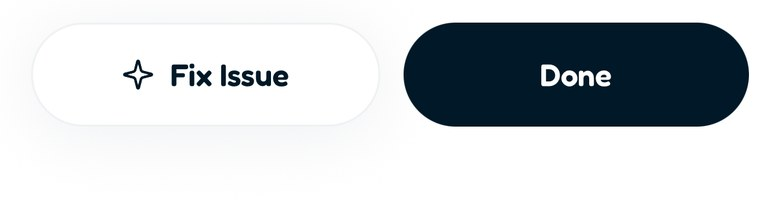
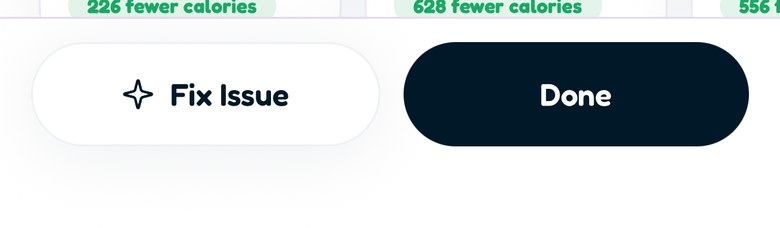
Jar result: Next time folded, swaps on the first screen, no page scroll

diff --git a/assets/main-Ck3A3qQY.js b/assets/main-Ck3A3qQY.js
@@ -1,0 +1,1 @@
+import{j as e,r as g,h as H,P as D,A as I,a as Z,b as J,d as K,t as Q,H as ee,F as te,c as se}from"./Footer-ChDiOIn4.js";function $({src:s,alt:d,width:r=280,className:o="",priority:t=!1,screen:i,dim:h=!1}){const l=r,c=l*.016,k=l*.03,p=c+k,m=l-p*2,b=m*(2868/1320)+p*2,S=l*.165,j=Math.max(1,l*.005),w=l*.012,F=[[.155,.04],[.225,.065],[.31,.065]],a=[[.255,.115]],B=(n,[x,u],v)=>e.jsx("div",{className:"absolute",style:{top:b*x,height:b*u,width:w+c,[n]:-w,borderRadius:n==="left"?`${w}px 0 0 ${w}px`:`0 ${w}px ${w}px 0`,background:n==="left"?"linear-gradient(90deg, #4c4c54 0%, #1c1c21 45%, #101013 100%)":"linear-gradient(270deg, #3a3a41 0%, #1a1a1f 45%, #101013 100%)",boxShadow:"inset 0 1px 0 rgba(255,255,255,0.28), inset 0 -1px 0 rgba(0,0,0,0.6)"}},`${n}${v}`),T=[{top:0,left:l*.2,width:j,height:c},{top:0,right:l*.2,width:j,height:c},{bottom:0,left:l*.2,width:j,height:c},{bottom:0,right:l*.2,width:j,height:c},{left:0,top:b*.1,height:j,width:c},{left:0,bottom:b*.1,height:j,width:c},{right:0,top:b*.1,height:j,width:c},{right:0,bottom:b*.1,height:j,width:c}],P={w:m*.31,h:m*.092,top:m*.028},M=m*.052;return e.jsxs("div",{className:`relative shrink-0 ${o}`,style:{width:l,height:b},children:[e.jsx("div",{className:"absolute inset-0",style:{borderRadius:S,boxShadow:`0 ${l*.12}px ${l*.3}px rgba(52,18,110,0.45), 0 ${l*.03}px ${l*.07}px rgba(0,0,0,0.3)`}}),F.map((n,x)=>B("left",n,x)),a.map((n,x)=>B("right",n,x)),e.jsx("div",{className:"absolute inset-0",style:{borderRadius:S,background:"linear-gradient(155deg, #5a5a63 0%, #2a2a30 14%, #35353c 32%, #1b1b1f 55%, #2e2e34 78%, #56565f 100%)",boxShadow:"inset 0 0 0 1px rgba(255,255,255,0.28), inset 0 0 0 2px rgba(0,0,0,0.35)"}}),e.jsx("div",{className:"absolute inset-0",style:{borderRadius:S,padding:c,background:"conic-gradient(from 200deg at 50% 50%, rgba(255,255,255,0) 0deg, rgba(255,255,255,0.22) 35deg, rgba(255,255,255,0.04) 80deg, rgba(255,255,255,0) 130deg, rgba(255,255,255,0.14) 215deg, rgba(255,255,255,0) 260deg, rgba(255,255,255,0.08) 320deg, rgba(255,255,255,0) 360deg)",WebkitMask:"linear-gradient(#000 0 0) content-box, linear-gradient(#000 0 0)",WebkitMaskComposite:"xor",maskComposite:"exclude"},"aria-hidden":"true"}),T.map((n,x)=>e.jsx("div",{className:"absolute",style:{...n,background:"rgba(200,200,212,0.42)"}},x)),e.jsx("div",{className:"absolute",style:{inset:c,borderRadius:S-c,background:"#050507",boxShadow:"inset 0 0 0 1px rgba(255,255,255,0.07), inset 0 0 8px rgba(0,0,0,0.9)"}}),e.jsxs("div",{className:"absolute overflow-hidden bg-black",style:{inset:p,borderRadius:S-p},children:[i?i(m):e.jsx("img",{src:s,alt:d,width:1320,height:2868,loading:t?"eager":"lazy",decoding:"async",className:"h-full w-full object-cover",draggable:!1}),e.jsx("div",{className:"pointer-events-none absolute inset-0 z-20 bg-black",style:{opacity:h?.62:0,transition:"opacity 900ms ease"},"aria-hidden":"true"}),e.jsx("div",{className:"absolute left-1/2 -translate-x-1/2 rounded-full bg-black",style:{top:P.top,width:P.w,height:P.h,boxShadow:"inset 0 0 0 1px rgba(255,255,255,0.05)"},children:e.jsx("div",{className:"absolute top-1/2 -translate-y-1/2 rounded-full",style:{right:(P.h-M)/2,width:M,height:M,background:"radial-gradient(circle at 38% 35%, #2b2b3d 0%, #121218 45%, #05050a 70%)",boxShadow:"inset 0 0 0 1px rgba(255,255,255,0.09), 0 0 0 1px rgba(0,0,0,0.9)"}})}),e.jsx("div",{className:"pointer-events-none absolute inset-0",style:{background:"linear-gradient(118deg, rgba(255,255,255,0.16) 0%, rgba(255,255,255,0.05) 28%, rgba(255,255,255,0) 46%)"},"aria-hidden":"true"}),e.jsx("div",{className:"pointer-events-none absolute inset-0",style:{borderRadius:S-p,boxShadow:"inset 0 0 0 1px rgba(255,255,255,0.10), inset 0 1px 0 rgba(255,255,255,0.18)"},"aria-hidden":"true"})]})]})}const X=12e3,A={loading:320,result:2020},ae=1500,re=1300,ie=1900,z=402,ne=874;function le({clip:s,result:d,scene:r,alt:o,width:t,active:i}){const h=g.useRef(null),[l,c]=g.useState("camera"),[k,p]=g.useState(0),[m,E]=g.useState(0),b=g.useRef([]),S=()=>{b.current.forEach(n=>window.clearTimeout(n)),b.current=[]},[j]=g.useState(()=>typeof window<"u"&&window.matchMedia("(prefers-reduced-motion: reduce)").matches);g.useEffect(()=>{const n=h.current;if(!n||j)return;n.muted=!0,n.setAttribute("muted","");const x=()=>{!document.hidden&&i&&n.play().catch(()=>{})};return document.addEventListener("visibilitychange",x),()=>document.removeEventListener("visibilitychange",x)},[j,i]),g.useEffect(()=>{const n=h.current;if(!i||j){S(),c("camera"),p(0),E(0),n&&(n.pause(),n.currentTime=0);return}n&&(n.loop=!1,n.currentTime=0,n.play().catch(()=>{}));const x=window.setTimeout(()=>F(),2600);return b.current.push(x),b.current.push(window.setTimeout(()=>{c("camera"),p(0)},X-400)),S},[i,j,r]);const w=g.useRef(!1);g.useEffect(()=>{w.current=!1},[i]);function F(){if(w.current||!i)return;w.current=!0,c("shoot");const n=(u,v)=>b.current.push(window.setTimeout(v,u));n(A.loading,()=>{c("loading");const u=performance.now(),v=()=>{const y=Math.min(1,(performance.now()-u)/ae);E(Math.round((1-Math.pow(1-y,3))*100)),y<1&&requestAnimationFrame(v)};requestAnimationFrame(v)}),n(A.result,()=>{p(0),c("result")});const x=(r.pageScrollPt?1:0)+r.moves.length;for(let u=0;u<x;u++)n(A.result+re+u*ie,()=>p(u+1))}const a=n=>n/z*t,B=a(ne),T=l==="camera"||l==="shoot",P=l==="loading",M=l==="result";return j?e.jsx("img",{src:d,alt:o,className:"h-full w-full object-cover",draggable:!1}):e.jsxs("div",{className:"relative h-full w-full overflow-hidden bg-black",style:{fontFamily:"var(--font-display)"},children:[e.jsxs("div",{className:"absolute inset-0",style:{opacity:T?1:0,transition:"opacity 160ms ease"},children:[e.jsxs("video",{ref:h,className:"absolute inset-0 h-full w-full object-cover",muted:!0,playsInline:!0,preload:"auto",poster:`/video/${s}-poster.jpg`,onEnded:F,"aria-hidden":"true",children:[e.jsx("source",{src:`/video/${s}.webm`,type:"video/webm"}),e.jsx("source",{src:`/video/${s}.mp4`,type:"video/mp4"})]}),e.jsx(_,{sw:t}),e.jsxs("div",{className:"absolute inset-x-0 flex items-center justify-between",style:{top:a(67),paddingLeft:a(20),paddingRight:a(20)},children:[e.jsx(W,{sw:t,size:36,children:e.jsx(R,{sw:t,size:19,d:["M19 12H5","m12 19-7-7 7-7"]})}),e.jsx("span",{className:"font-semibold text-white",style:{fontSize:a(16)},children:"Scanner"}),e.jsx(W,{sw:t,size:36,children:e.jsx("span",{className:"font-bold text-white",style:{fontSize:a(18)},children:"?"})})]}),(()=>{const n=t*.84,x=n/.84,u=(a(107)+(B-a(250)))/2-x/2,v=a(4),y=a(22),N=a(32),U=f=>({position:"absolute",width:N,height:N,borderColor:"#fff",borderStyle:"solid",top:f[0]==="t"?0:void 0,bottom:f[0]==="b"?0:void 0,left:f[1]==="l"?0:void 0,right:f[1]==="r"?0:void 0,borderTopWidth:f[0]==="t"?v:0,borderBottomWidth:f[0]==="b"?v:0,borderLeftWidth:f[1]==="l"?v:0,borderRightWidth:f[1]==="r"?v:0,borderTopLeftRadius:f==="tl"?y:0,borderTopRightRadius:f==="tr"?y:0,borderBottomLeftRadius:f==="bl"?y:0,borderBottomRightRadius:f==="br"?y:0});return e.jsx("div",{className:"absolute left-1/2 -translate-x-1/2",style:{top:u,width:n,height:x},children:["tl","tr","bl","br"].map(f=>e.jsx("span",{style:U(f)},f))})})(),e.jsx(V,{sw:t,items:[".5x","1x"],active:1,minWidth:96,bottom:204}),e.jsx(V,{sw:t,items:["Log","Swap","Menu"],active:0,minWidth:160,bottom:164}),e.jsx("div",{className:"absolute inset-x-0 flex items-center",style:{bottom:a(96),height:a(58),paddingLeft:a(28),paddingRight:a(28),gap:a(8)},children:[["Scan Food",["M3 7V5a2 2 0 0 1 2-2h2","M17 3h2a2 2 0 0 1 2 2v2","M21 17v2a2 2 0 0 1-2 2h-2","M7 21H5a2 2 0 0 1-2-2v-2","M7 12h10"]],["Barcode",["M3 5v14","M8 5v14","M12 5v14","M17 5v14","M21 5v14"]],["Food label",["M3 2v7a2 2 0 0 0 2 2h0a2 2 0 0 0 2-2V2","M7 2v20","M21 15V2a5 5 0 0 0-5 5v6c0 1.1.9 2 2 2h3Z"]]].map(([n,x],u)=>e.jsxs("span",{className:"flex flex-1 flex-col items-center justify-center",style:{gap:a(3),paddingTop:a(7),paddingBottom:a(7),borderRadius:a(13),background:u===0?"#fff":"rgba(255,255,255,0.14)",border:`1px solid ${u===0?"#fff":"rgba(255,255,255,0.42)"}`,backdropFilter:u===0?void 0:"blur(10px)",color:u===0?"#001827":"#fff"},children:[e.jsx(R,{sw:t,size:15,d:x}),e.jsx("span",{className:"font-bold",style:{fontSize:a(10)},children:n})]},n))}),e.jsxs("div",{className:"absolute inset-x-0 flex items-center justify-between",style:{bottom:a(24),paddingLeft:a(20),paddingRight:a(20)},children:[e.jsx(W,{sw:t,size:44,children:e.jsx(R,{sw:t,size:18,d:["M8.5 14.5A2.5 2.5 0 0 0 11 12c0-1.38-.5-2-1-3-1.072-2.143-.224-4.054 2-6 .5 2.5 2 4.9 4 6.5 2 1.6 3 3.5 3 5.5a7 7 0 1 1-14 0c0-1.153.433-2.294 1-3a2.5 2.5 0 0 0 2.5 2.5z"]})}),e.jsx("span",{className:"grid place-items-center rounded-full",style:{width:a(64),height:a(64),border:`${a(4)}px solid #fff`},children:e.jsx("span",{className:"block rounded-full bg-white",style:{width:a(49),height:a(49),transform:l==="shoot"?"scale(0.82)":"scale(1)",transition:"transform 120ms ease"}})}),e.jsx(W,{sw:t,size:44,children:e.jsx(R,{sw:t,size:18,d:["M3 5a2 2 0 0 1 2-2h14a2 2 0 0 1 2 2v14a2 2 0 0 1-2 2H5a2 2 0 0 1-2-2z","m21 15-5-5L5 21"],circle:[9,9,2]})})]}),e.jsx("span",{className:"absolute left-1/2 -translate-x-1/2 rounded-full bg-white",style:{bottom:a(8),width:a(139),height:a(5)}})]}),e.jsx("div",{className:"pointer-events-none absolute inset-0 z-20 bg-white",style:{opacity:l==="shoot"?.85:0,transition:l==="shoot"?"none":"opacity 240ms ease"}}),e.jsxs("div",{className:"absolute inset-0 z-[5] bg-[#F7F5FB] text-[#001827]",style:{opacity:P?1:0,transition:"opacity 200ms ease",pointerEvents:"none"},children:[e.jsx(_,{sw:t,dark:!0}),e.jsxs("div",{className:"absolute left-1/2 top-1/2 -translate-x-1/2 -translate-y-1/2",style:{width:a(150),height:a(150)},children:[e.jsx(oe,{sw:t,size:150,stroke:11,pct:m}),e.jsxs("span",{className:"absolute inset-0 grid place-items-center font-bold",style:{fontSize:a(34),letterSpacing:"-0.02em"},children:[m,"%"]})]}),e.jsx("p",{className:"absolute inset-x-0 text-center font-semibold",style:{top:`calc(50% + ${a(100)}px)`,fontSize:a(17),color:"#5B6B78"},children:"Analysing…"})]}),(()=>{const n=r.pageScrollPt?1:0,x=r.pageScrollPt&&k>=1?a(r.pageScrollPt):0,u=Math.min(r.moves.length,Math.max(0,k-n)),v=u>0?a(r.moves[u-1]):0,y="cubic-bezier(0.16, 1, 0.3, 1)";return e.jsxs("div",{className:"absolute inset-0 z-10 overflow-hidden bg-white",style:{transform:M?"translateX(0)":"translateX(100%)",transition:M?"transform 320ms cubic-bezier(0.22, 1, 0.36, 1)":"transform 0ms",boxShadow:"-12px 0 30px rgba(0,0,0,0.25)"},children:[e.jsxs("div",{className:"absolute left-0 top-0 w-full will-change-transform",style:{transform:`translateY(${-x}px)`,transition:M?`transform 1000ms ${y}`:"none"},children:[e.jsx("img",{src:r.base,alt:o,className:"block w-full",draggable:!1}),e.jsx("div",{className:"absolute left-0 w-full overflow-hidden",style:{top:a(r.band.topPt),height:a(r.band.heightPt)},children:e.jsx("img",{src:r.strip,alt:"",className:"block max-w-none will-change-transform",draggable:!1,style:{height:a(r.band.heightPt),width:a(r.stripWidthPt),transform:`translateX(${-v}px)`,transition:M?`transform 1400ms ${y}`:"none"}})})]}),r.cleanTopWhenScrolled&&e.jsxs("div",{className:"absolute inset-x-0 top-0",style:{height:a(140),opacity:x>0?1:0,transition:"opacity 500ms ease",background:"linear-gradient(#F7F5FB 0%, #F7F5FB 74%, rgba(247,245,251,0) 100%)"},children:[e.jsx(_,{sw:t,dark:!0}),e.jsxs("div",{className:"absolute inset-x-0 flex items-center justify-between",style:{top:a(50),paddingLeft:a(12),paddingRight:a(12)},children:[e.jsx(O,{sw:t,children:e.jsx(R,{sw:t,size:20,d:["M19 12H5","m12 19-7-7 7-7"]})}),e.jsxs("span",{className:"flex",style:{gap:a(10)},children:[e.jsx(O,{sw:t,children:e.jsx(R,{sw:t,size:19,d:["M12 3v12","m7 8 5-5 5 5","M5 14v5a2 2 0 0 0 2 2h10a2 2 0 0 0 2-2v-5"]})}),e.jsx(O,{sw:t,children:e.jsx(R,{sw:t,size:19,d:["M5 12h.01","M12 12h.01","M19 12h.01"]})})]})]})]}),r.fixed?.map(N=>e.jsx("img",{src:N.src,alt:"",className:"absolute block max-w-none",draggable:!1,style:{left:a(N.leftPt),top:a(N.topPt),width:a(N.widthPt),height:a(N.heightPt),opacity:!N.whenScrolled||x>0?1:0,transition:"opacity 700ms ease"}},N.src))]})})()]})}function _({sw:s,dark:d}){const r=t=>t/z*s,o=d?"#001827":"#fff";return e.jsxs("div",{className:"absolute inset-x-0 flex items-center justify-between font-semibold",style:{top:r(14),paddingLeft:r(44),paddingRight:r(36),fontSize:r(17),color:o},children:[e.jsx("span",{children:"9:41"}),e.jsxs("span",{className:"flex items-center",style:{gap:r(6)},children:[e.jsxs("svg",{width:r(18),height:r(12),viewBox:"0 0 18 12",fill:o,children:[e.jsx("rect",{x:"0",y:"8",width:"3",height:"4",rx:"0.8"}),e.jsx("rect",{x:"5",y:"5.5",width:"3",height:"6.5",rx:"0.8"}),e.jsx("rect",{x:"10",y:"3",width:"3",height:"9",rx:"0.8"}),e.jsx("rect",{x:"15",y:"0",width:"3",height:"12",rx:"0.8"})]}),e.jsxs("svg",{width:r(17),height:r(12),viewBox:"0 0 16 12",fill:o,children:[e.jsx("path",{d:"M8 11.5 5.6 9a3.4 3.4 0 0 1 4.8 0zM3.5 6.8l-1.6-1.7a8.7 8.7 0 0 1 12.2 0l-1.6 1.7a6.4 6.4 0 0 0-9 0z"}),e.jsx("path",{d:"M8 4.2c1.5 0 2.9.6 3.9 1.6L10.3 7.5a3.3 3.3 0 0 0-4.6 0L4.1 5.8a5.5 5.5 0 0 1 3.9-1.6z"})]}),e.jsxs("svg",{width:r(27),height:r(13),viewBox:"0 0 27 13",fill:"none",children:[e.jsx("rect",{x:"0.5",y:"0.5",width:"23",height:"12",rx:"3.5",stroke:o,strokeOpacity:"0.5"}),e.jsx("rect",{x:"2",y:"2",width:"20",height:"9",rx:"2",fill:o}),e.jsx("path",{d:"M25 4.5v4a2 2 0 0 0 0-4z",fill:o,fillOpacity:"0.5"})]})]})]})}function O({sw:s,children:d}){const r=o=>o/z*s;return e.jsx("span",{className:"grid place-items-center rounded-full text-[#001827]",style:{width:r(40),height:r(40),background:"#EEEDF3"},children:d})}function oe({sw:s,size:d,stroke:r,pct:o}){const t=k=>k/z*s,i=t(d),h=t(r),l=(i-h)/2,c=2*Math.PI*l;return e.jsxs("svg",{width:i,height:i,style:{transform:"rotate(-90deg)"},"aria-hidden":"true",children:[e.jsx("circle",{cx:i/2,cy:i/2,r:l,stroke:"#E6DFF5",strokeWidth:h,fill:"none"}),e.jsx("circle",{cx:i/2,cy:i/2,r:l,stroke:"#7A3FB8",strokeWidth:h,fill:"none",strokeLinecap:"round",strokeDasharray:c,strokeDashoffset:c*(1-o/100)})]})}function W({sw:s,size:d,children:r}){const o=t=>t/z*s;return e.jsx("span",{className:"grid place-items-center rounded-full text-white",style:{width:o(d),height:o(d),background:"rgba(255,255,255,0.14)",border:"1px solid rgba(255,255,255,0.42)",backdropFilter:"blur(10px)"},children:r})}function R({sw:s,size:d,d:r,circle:o}){const t=d/z*s;return e.jsxs("svg",{width:t,height:t,viewBox:"0 0 24 24",fill:"none",stroke:"currentColor",strokeWidth:"2",strokeLinecap:"round",strokeLinejoin:"round","aria-hidden":"true",children:[r.map(i=>e.jsx("path",{d:i},i)),o&&e.jsx("circle",{cx:o[0],cy:o[1],r:o[2]})]})}function V({sw:s,items:d,active:r,minWidth:o,bottom:t}){const i=h=>h/z*s;return e.jsx("div",{className:"absolute left-1/2 flex -translate-x-1/2 rounded-full",style:{bottom:i(t),minWidth:i(o),padding:i(3),background:"rgba(0,0,0,0.34)"},children:d.map((h,l)=>e.jsx("span",{className:"flex flex-1 items-center justify-center rounded-full font-bold",style:{paddingTop:i(5),paddingBottom:i(5),paddingLeft:i(10),paddingRight:i(10),fontSize:i(11),color:l===r?"#fff":"rgba(255,255,255,0.72)",background:l===r?"rgba(255,255,255,0.22)":"transparent",border:`1px solid ${l===r?"rgba(255,255,255,0.5)":"transparent"}`,backdropFilter:l===r?"blur(8px)":void 0},children:h},h))})}const de={base:"/app/res-meal.jpg",band:{topPt:520,heightPt:256.7},strip:"/app/res-meal-strip.jpg",stripWidthPt:1036,moves:[326,634]},ce={base:"/app/res-groc.jpg",band:{topPt:528.3,heightPt:238.3},strip:"/app/res-groc-strip.jpg",stripWidthPt:1036,moves:[326,634],fixed:[{src:"/app/res-groc-bar.jpg",leftPt:0,topPt:756.7,widthPt:402,heightPt:117.3}]},C=[{key:"grocery",clip:"grocery",result:"/app/res-groc.jpg",scene:ce,alt:"Easy scanning a jar of peanut butter and suggesting lighter swaps"},{key:"meal",clip:"meal",result:"/app/res-meal.jpg",scene:de,alt:"Easy scanning a burger with fries and suggesting lighter swaps"},{key:"menu",result:"/app/rescue.jpg",alt:"Restaurant rescue in Easy picking the best order from a menu"}],L=C.map((s,d)=>s.clip?d:-1).filter(s=>s>=0);function q(s,d){if(!s.clip||!s.scene)return;const{clip:r,scene:o}=s;return t=>e.jsx(le,{clip:r,result:s.result,scene:o,alt:s.alt,width:t,active:d})}function xe(){const[s,d]=g.useState(1);g.useEffect(()=>{const t=window.setInterval(()=>d(i=>L[(L.indexOf(i)+1)%L.length]),X);return()=>window.clearInterval(t)},[]);const r=[s,...L.filter(t=>t!==s),...C.map((t,i)=>i).filter(t=>!L.includes(t))],o=t=>r.indexOf(t);return e.jsxs("section",{id:"top",className:"relative overflow-hidden pt-[112px] md:pt-[128px]",children:[e.jsxs("div",{className:"stage-in relative h-[440px] w-full overflow-hidden md:h-[600px]",children:[e.jsx("div",{className:"absolute inset-x-0 top-0 flex justify-center",children:C.map((t,i)=>{const h=o(i);return e.jsxs("div",{className:"stage-slot absolute top-0","data-slot":h,style:{zIndex:30-h*10},children:[e.jsx("div",{className:"hidden md:block",children:e.jsx($,{src:t.result,alt:t.alt,width:300,priority:i===1,screen:q(t,s===i),dim:h!==0})}),e.jsx("div",{className:"md:hidden",children:e.jsx($,{src:t.result,alt:t.alt,width:224,priority:i===1,screen:q(t,s===i),dim:h!==0})})]},t.key)})}),e.jsx("div",{className:"pointer-events-none absolute inset-x-0 bottom-0 h-24 bg-[linear-gradient(rgba(169,139,239,0),#A98BEF)]","aria-hidden":"true"})]}),e.jsx("div",{className:"mx-auto h-px w-[min(80%,720px)] bg-white/30","aria-hidden":"true"}),e.jsxs("div",{className:"mx-auto max-w-[1200px] px-6 pt-8 text-center md:pt-10",children:[e.jsxs("h1",{className:"rise rise-2 hero-grad font-display mx-auto max-w-[14ch] text-[36px] font-semibold leading-[1.04] tracking-[-0.02em] sm:text-[56px] md:text-[76px]",children:["The ",e.jsx("span",{className:"hero-underline",children:"last"})," diet app",e.jsx("br",{}),"you'll ever need."]}),e.jsx("p",{className:"rise rise-3 mx-auto mt-4 max-w-[34ch] text-[14.5px] leading-[1.5] text-white/85 md:mt-6 md:max-w-[560px] md:text-[19px]",children:H.sub}),e.jsxs("div",{className:"rise rise-4 mx-auto mt-6 grid max-w-[340px] grid-cols-2 gap-2.5 md:hidden",children:[e.jsx(D,{full:!0,tag:!1}),e.jsx(I,{light:!0,full:!0})]}),e.jsxs("div",{className:"rise rise-4 mt-8 hidden items-center justify-center gap-3 md:flex",children:[e.jsx(D,{size:"lg"}),e.jsx(I,{light:!0,size:"lg"})]}),e.jsx("p",{className:"rise rise-4 mt-3 pb-16 text-[12px] font-medium text-white/60 md:mt-4 md:pb-24 md:text-[13px]",children:H.proof})]})]})}function Y({children:s,ariaLabel:d,dark:r=!1}){const o=g.useRef(null),[t,i]=g.useState(!0),[h,l]=g.useState(!1);g.useEffect(()=>{const p=o.current;if(!p)return;const m=()=>{i(p.scrollLeft<=4),l(p.scrollLeft+p.clientWidth>=p.scrollWidth-4)};return m(),p.addEventListener("scroll",m,{passive:!0}),window.addEventListener("resize",m),()=>{p.removeEventListener("scroll",m),window.removeEventListener("resize",m)}},[]);const c=p=>{const m=o.current;if(!m)return;const E=m.querySelector("[data-card]"),b=E?E.offsetWidth+20:m.clientWidth*.8;m.scrollBy({left:p*b,behavior:"smooth"})},k=`grid h-11 w-11 place-items-center rounded-full border transition-all duration-200 disabled:opacity-30 disabled:cursor-default ${r?"border-white/25 bg-white/10 text-white hover:bg-white/20":"border-ink/10 bg-white text-ink shadow-[0_6px_18px_rgba(0,24,39,0.10)] hover:-translate-y-0.5"}`;return e.jsxs("div",{className:"relative",children:[e.jsxs("div",{ref:o,role:"region","aria-label":d,className:"no-scrollbar flex snap-x snap-mandatory gap-5 overflow-x-auto scroll-smooth px-6 pb-4 pt-2 md:px-[max(24px,calc((100vw-1200px)/2))]",style:{scrollPaddingLeft:"max(24px, calc((100vw - 1200px) / 2))"},children:[s,e.jsx("div",{className:"w-2 shrink-0","aria-hidden":"true"})]}),e.jsxs("div",{className:"mt-2 flex justify-end gap-3 px-6 md:px-[max(24px,calc((100vw-1200px)/2))]",children:[e.jsx("button",{type:"button",className:k,onClick:()=>c(-1),disabled:t,"aria-label":"Previous",children:e.jsx(Z,{})}),e.jsx("button",{type:"button",className:k,onClick:()=>c(1),disabled:h,"aria-label":"Next",children:e.jsx(J,{})})]})]})}function he(){return e.jsxs("section",{id:"features",className:"relative pt-12 md:pt-24",children:[e.jsxs("div",{className:"mx-auto max-w-[1200px] px-6",children:[e.jsx("p",{className:"text-[11px] font-semibold uppercase tracking-[0.2em] text-violet-700 md:text-[12px]",children:"What it does"}),e.jsx("h2",{className:"font-display mt-2 max-w-[16ch] text-[28px] font-semibold leading-[1.08] tracking-[-0.02em] text-ink md:mt-3 md:text-[52px]",children:"Everything you need. Nothing you don't."})]}),e.jsx("div",{className:"mt-6 md:mt-10",children:e.jsx(Y,{ariaLabel:"Features",children:K.map(s=>e.jsxs("article",{id:s.key,"data-card":!0,className:"group relative flex w-[280px] shrink-0 snap-start flex-col overflow-hidden rounded-[28px] border border-ink/[0.06] shadow-[0_18px_50px_rgba(0,24,39,0.08)] transition-transform duration-300 hover:-translate-y-1 md:w-[380px] md:rounded-[32px]",style:{background:s.tint},children:[e.jsxs("div",{className:"flex-1 px-6 pt-6 md:px-7 md:pt-7",children:[e.jsx("h3",{className:"font-display text-[20px] font-semibold leading-tight tracking-[-0.01em] text-ink md:text-[27px]",children:s.title}),e.jsx("p",{className:"mt-1.5 text-[13.5px] leading-[1.5] text-ink-soft md:mt-2 md:text-[14.5px]",children:s.blurb})]}),e.jsx("div",{className:"relative mt-5 h-[350px] shrink-0 overflow-hidden md:mt-6 md:h-[420px]",children:e.jsxs("div",{className:"absolute left-1/2 top-4 -translate-x-1/2 transition-transform duration-500 group-hover:-translate-y-2",children:[e.jsx("div",{className:"md:hidden",children:e.jsx($,{src:s.image,alt:s.title,width:210})}),e.jsx("div",{className:"hidden md:block",children:e.jsx($,{src:s.image,alt:s.title,width:240})})]})})]},s.key))})})]})}function G({src:s,label:d}){return s?e.jsx("img",{src:s,alt:d,className:"h-full w-full object-cover",loading:"lazy"}):e.jsx("div",{className:"grid h-full w-full place-items-center rounded-2xl border-2 border-dashed border-violet-300/70 bg-violet-50 text-center",children:e.jsxs("div",{children:[e.jsx("div",{className:"mx-auto mb-2 h-10 w-10 rounded-full bg-violet-100"}),e.jsx("span",{className:"text-[12px] font-semibold uppercase tracking-[0.18em] text-violet-700/70",children:d}),e.jsx("span",{className:"block text-[12px] text-mist",children:"Drop a photo here"})]})})}function pe({t:s}){return e.jsxs("article",{"data-card":!0,className:"w-[290px] shrink-0 snap-start overflow-hidden rounded-[28px] bg-white p-3 shadow-[0_18px_50px_rgba(27,7,64,0.16)] transition-transform duration-300 hover:-translate-y-1 md:w-[400px] md:rounded-[32px] md:p-4",children:[e.jsxs("div",{className:"grid grid-cols-2 gap-2",children:[e.jsx("div",{className:"aspect-[3/4] overflow-hidden rounded-2xl",children:e.jsx(G,{src:s.before,label:"Before"})}),e.jsx("div",{className:"aspect-[3/4] overflow-hidden rounded-2xl",children:e.jsx(G,{src:s.after,label:"After"})})]}),e.jsxs("div",{className:"px-2 pb-2 pt-4 md:pt-5",children:[e.jsxs("div",{className:"flex items-baseline justify-between gap-3",children:[e.jsx("h3",{className:"font-display text-[19px] font-semibold text-ink md:text-[22px]",children:s.name}),e.jsx("span",{className:"rounded-full bg-violet-100 px-2.5 py-0.5 text-[12px] font-semibold text-violet-700 md:px-3 md:py-1 md:text-[13px]",children:s.result})]}),e.jsxs("p",{className:"mt-1.5 text-[13.5px] leading-[1.5] text-ink-soft md:mt-2 md:text-[14.5px]",children:["“",s.quote,"”"]})]})]})}function me(){return e.jsxs("section",{id:"results",className:"relative pt-16 pb-6 md:pt-36 md:pb-10",children:[e.jsxs("div",{className:"mx-auto max-w-[1200px] px-6",children:[e.jsx("p",{className:"text-[11px] font-semibold uppercase tracking-[0.2em] text-violet-700 md:text-[12px]",children:"Results"}),e.jsx("h2",{className:"font-display mt-2 max-w-[16ch] text-[28px] font-semibold leading-[1.08] tracking-[-0.02em] text-ink md:mt-3 md:text-[52px]",children:"Real people. Real food. Real weeks."})]}),e.jsx("div",{className:"mt-6 md:mt-10",children:e.jsx(Y,{ariaLabel:"Transformations",children:Q.map((s,d)=>e.jsx(pe,{t:s},d))})})]})}function ue(){return e.jsxs(e.Fragment,{children:[e.jsx(ee,{}),e.jsxs("main",{children:[e.jsx(xe,{}),e.jsx(he,{}),e.jsx(me,{})]}),e.jsx(te,{})]})}se.createRoot(document.getElementById("root")).render(e.jsx(g.StrictMode,{children:e.jsx(ue,{})}));

diff --git a/index.html b/index.html
@@ -23,7 +23,7 @@
     <meta name="twitter:card" content="summary_large_image" />
     <meta name="twitter:image" content="/easy-icon.png" />
     <meta name="theme-color" content="#A98BEF" />
-    <script type="module" crossorigin src="/assets/main-DCTNC8Vg.js"></script>
+    <script type="module" crossorigin src="/assets/main-Ck3A3qQY.js"></script>
     <link rel="modulepreload" crossorigin href="/assets/Footer-ChDiOIn4.js">
     <link rel="stylesheet" crossorigin href="/assets/Footer-8YJmppHD.css">
   </head>
